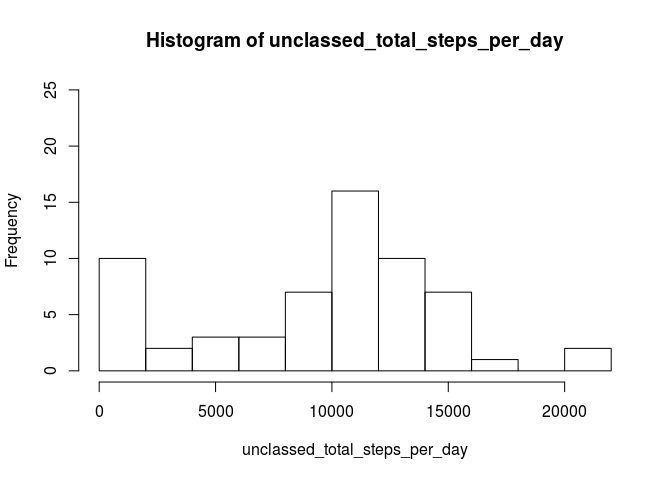
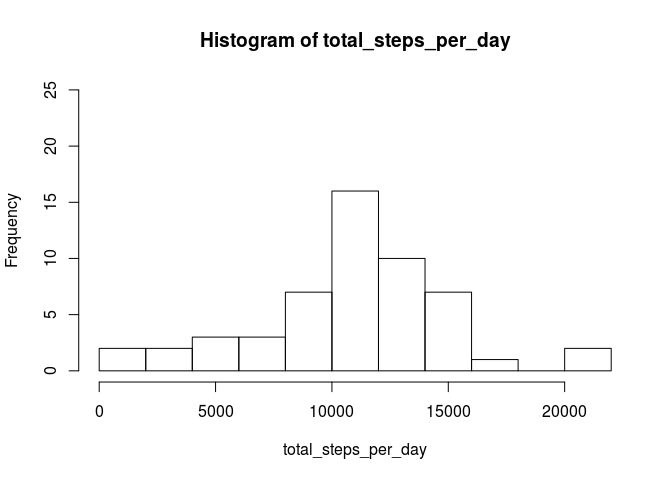
Remove unclassed experiment

diff --git a/PA1_template.html b/PA1_template.html
@@ -66,8 +66,7 @@ img {
 
 <div id="loading-and-preprocessing-the-data" class="section level2">
 <h2>Loading and preprocessing the data</h2>
-<pre class="r"><code>unclassed_data = read.csv('activity.csv')
-data = read.csv('activity.csv', colClasses=c('numeric', 'Date', 'numeric'))
+<pre class="r"><code>data = read.csv('activity.csv', colClasses=c('numeric', 'Date', 'numeric'))
 head(data)</code></pre>
 <pre><code>##   steps       date interval
 ## 1    NA 2012-10-01        0
@@ -88,25 +87,11 @@ head(data)</code></pre>
 <div id="what-is-mean-total-number-of-steps-taken-per-day" class="section level2">
 <h2>What is mean total number of steps taken per day?</h2>
 <p>Per the assignment instructions, we will for now (naively) limit our analysis for this problem to non-missing values:</p>
-<pre class="r"><code>unclassed_cleaned &lt;- unclassed_data[!is.na(unclassed_data$steps),]
-cleaned &lt;- data[!is.na(data$steps),]
-nrow(unclassed_cleaned)</code></pre>
-<pre><code>## [1] 15264</code></pre>
-<pre class="r"><code>nrow(cleaned)</code></pre>
-<pre><code>## [1] 15264</code></pre>
+<pre class="r"><code>cleaned &lt;- data[!is.na(data$steps),]</code></pre>
 <p>Find the total number of steps per day, excluding missing values:</p>
-<pre class="r"><code>unclassed_by_date &lt;- split(unclassed_cleaned, unclassed_cleaned$date)
-unclassed_total_steps_per_day &lt;- sapply(unclassed_by_date, function (date) { sum(date$steps) })
-
-by_date &lt;- split(cleaned, cleaned$date)
+<pre class="r"><code>by_date &lt;- split(cleaned, cleaned$date)
 total_steps_per_day &lt;- sapply(by_date, function (date) { sum(date$steps) })</code></pre>
 <p>Histogram of total steps per day:</p>
-<pre class="r"><code>length(unclassed_total_steps_per_day)</code></pre>
-<pre><code>## [1] 61</code></pre>
-<pre class="r"><code>length(total_steps_per_day)</code></pre>
-<pre><code>## [1] 53</code></pre>
-<pre class="r"><code>hist(unclassed_total_steps_per_day, breaks=10, ylim = c(0, 25))</code></pre>
[1 lines of base64/hex data omitted]
 <pre class="r"><code>hist(total_steps_per_day, breaks=10, ylim = c(0, 25))</code></pre>
[1 lines of base64/hex data omitted]
 <p>We can then calculate the mean and median number of steps taken per day as follows:</p>

diff --git a/PA1_template.md b/PA1_template.md
@@ -5,7 +5,6 @@
 
 
 ```r
-unclassed_data = read.csv('activity.csv')
 data = read.csv('activity.csv', colClasses=c('numeric', 'Date', 'numeric'))
 head(data)
 ```
@@ -42,30 +41,13 @@ problem to non-missing values:
 
 
 ```r
-unclassed_cleaned <- unclassed_data[!is.na(unclassed_data$steps),]
 cleaned <- data[!is.na(data$steps),]
-nrow(unclassed_cleaned)
-```
-
-```
-## [1] 15264
-```
-
-```r
-nrow(cleaned)
-```
-
-```
-## [1] 15264
 ```
 
 Find the total number of steps per day, excluding missing values:
 
 
 ```r
-unclassed_by_date <- split(unclassed_cleaned, unclassed_cleaned$date)
-unclassed_total_steps_per_day <- sapply(unclassed_by_date, function (date) { sum(date$steps) })
-
 by_date <- split(cleaned, cleaned$date)
 total_steps_per_day <- sapply(by_date, function (date) { sum(date$steps) })
 ```
@@ -74,32 +56,10 @@ Histogram of total steps per day:
 
 
 ```r
-length(unclassed_total_steps_per_day)
-```
-
-```
-## [1] 61
-```
-
-```r
-length(total_steps_per_day)
-```
-
-```
-## [1] 53
-```
-
-```r
-hist(unclassed_total_steps_per_day, breaks=10, ylim = c(0, 25))
-```
-
-![](PA1_template_files/figure-html/unnamed-chunk-4-1.png) 
-
-```r
 hist(total_steps_per_day, breaks=10, ylim = c(0, 25))
 ```
 
-![](PA1_template_files/figure-html/unnamed-chunk-4-2.png) 
+![](PA1_template_files/figure-html/unnamed-chunk-4-1.png) 
 
 We can then calculate the mean and median number of steps taken per day as follows:
 
